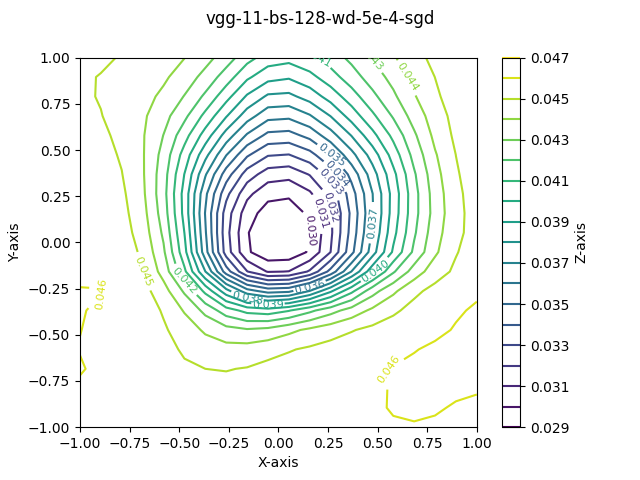
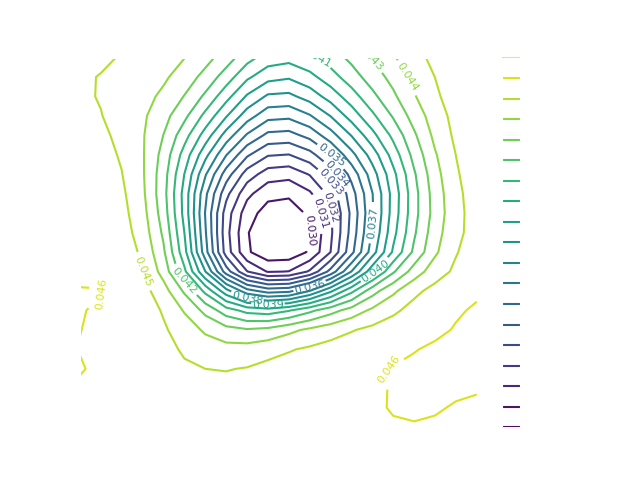
focus plot focus page images transparent bg

diff --git a/viz/blog.html b/viz/blog.html
@@ -288,7 +288,7 @@
         <!-- Image 1 -->
         <div class="col-md-2">
           <figure class="text-center">
-            <img src="../finalplots/vgg wd.jpeg" alt="VGG Weight Decay Effect" class="img-fluid">
+            <img src="../results/plots/weight-decay-vgg-11.png" alt="VGG Weight Decay Effect" class="img-fluid">
             <figcaption>VGG Weight Decay Effect</figcaption>
           </figure>
         </div>
@@ -296,7 +296,7 @@
         <!-- Image 1 -->
         <div class="col-md-2">
           <figure class="text-center">
-            <img src="../finalplots/vgg-11-wd-demonstration.png" alt="Weight Decay Effect" class="img-fluid">
+            <img src="../results/plots/weight-decay-compare-vgg-11.png" alt="Weight Decay Effect" class="img-fluid">
             <figcaption>Weight Decay Effect</figcaption>
           </figure>
         </div>
@@ -374,7 +374,7 @@
         <!-- Image 8 -->
         <div class="col-md-2">
           <figure class="text-center">
-            <img src="../results/plots/sharp-flat-plot-:resnet-56-short-4.png"
+            <img src="../results/plots/sharp-flat-plot-resnet-56-short-4.png"
               alt="ResNet-56, Shortcuts, Batch Size: 128" class="img-fluid">
             <figcaption>ResNet-56, Shortcuts, Batch Size: 128</figcaption>
           </figure>
@@ -383,7 +383,7 @@
         <!-- Image 9 -->
         <div class="col-md-2">
           <figure class="text-center">
-            <img src="../results/plots/sharp-flat-plot-:resnet-56-short-2.png"
+            <img src="../results/plots/sharp-flat-plot-resnet-56-short-2.png"
               alt="ResNet-56, Shortcuts, Batch Size: 128" class="img-fluid">
             <figcaption>ResNet-56, Shortcuts, Batch Size: 128</figcaption>
           </figure>
@@ -392,20 +392,16 @@
         <!-- Image 10 -->
         <div class="col-md-2">
           <figure class="text-center">
-            <img src="../results/plots/sharp-flat-plot-:resnet-56-short-1.png"
+            <img src="../results/plots/sharp-flat-plot-resnet-56-short-1.png"
               alt="ResNet-56, Shortcuts, Batch Size: 128" class="img-fluid">
             <figcaption>ResNet-56, Shortcuts, Batch Size: 128</figcaption>
           </figure>
         </div>
 
-      </div>
-
-      <div class="row">
-
         <!-- Image 11 -->
         <div class="col-md-2">
           <figure class="text-center">
-            <img src="../results/plots/sharp-flat-plot-:resnet-20-short-1.png"
+            <img src="../results/plots/sharp-flat-plot-resnet-20-short-1.png"
               alt="ResNet-20, Shortcuts, Batch Size: 128" class="img-fluid">
             <figcaption>ResNet-20, Shortcuts, Batch Size: 128</figcaption>
           </figure>
@@ -657,14 +653,25 @@
       integrity="sha384-C6RzsynM9kWDrMNeT87bh95OGNyZPhcTNXj1NW7RuBCsyN/o0jlpcV8Qyq46cDfL"
       crossorigin="anonymous"></script>
     <script type="text/javascript">
-      // make each paragraph a different color
-      const elements = []
-      for (let el of document.getElementsByTagName("section")) {
-        elements.push(el)
+      let time = 50
+      function animate() {
+        // requestAnimationFrame(animate)
+        // make each paragraph a different color
+        const elements = []
+        for (let el of document.getElementsByTagName("section")) {
+          elements.push(el)
+        }
+        for (let i = 0; i < elements.length; i++) elements[i].style.color = `hsl(${i * 30 + time}, 50%, 50%)`
+
+
+        // add background to all images
+        const images = document.getElementsByTagName("img")
+        for (let i = 0; i < images.length; i++) {
+          images[i].style.backgroundColor = `hsl(${i * 30 + time}, 50%, 50%, 0.1)`
+        }
+        time += 1
       }
-      for (let i = 0; i < elements.length; i++) elements[i].style.color = `hsl(${i * 30}, 50%, 50%)`;
-      // set the background color of the body
-      document.body.style.backgroundColor = "transparent !important";  
+      animate()
     </script>
 </body>
 

diff --git a/viz/js/gui.js b/viz/js/gui.js
@@ -3,13 +3,18 @@ import { world } from './world.js'
 import { reset_orbit_cam } from './controls.js'
 import { load_model_name } from './plot.js'
 import { add_ball, clear_balls } from './physics.js'
+import * as THREE from 'three'
+import TWEEN from 'tween'
 
 const gui_items = {
-	orbit_camera: () => {
-		world.camera = world.orbit_cam
-	},
-	reset_orbit_camera: () => {
+	// orbit_camera: () => {
+	// 	world.camera = world.orbit_cam
+	// },
+	focus_plot: () => {
 		reset_orbit_cam()
+	},
+	focus_page: () => {
+		move_cam_to_page()
 	},
 	add_ball: () => {
 		add_ball()
@@ -17,6 +22,29 @@ const gui_items = {
 	clear_balls: () => {
 		clear_balls()
 	},
+}
+
+function move_cam_to_page() {
+	const { orbit_cam, orbit } = world
+	const transitions = [
+		[orbit_cam.position, new THREE.Vector3(-3, 1, 4.5)],
+		[orbit_cam.quaternion, new THREE.Quaternion().setFromEuler(new THREE.Euler(0, 0, 0, 'XYZ'))],
+		[orbit.target, world.origin],
+	]
+
+	// look at page
+	orbit_cam.lookAt(world.page.position)
+
+	// smooth transition
+	for (const [start, end] of transitions) {
+		new TWEEN.Tween(start)
+			.to(end, 1000)
+			.easing(TWEEN.Easing.Quadratic.InOut)
+			.onUpdate(() => {
+				orbit_cam.updateProjectionMatrix()
+				orbit.update()
+			}).start()
+	}
 }
 
 function get_pretty_name(name) {
@@ -66,10 +94,10 @@ function init_gui() {
 				}
 				if (time > 1) {
 					time = 1
-					if(world.show_page) {
+					if (world.show_page) {
 						world.page_div.style.opacity = 1
 						world.page.visible = true
-					}else{
+					} else {
 						world.page_div.style.opacity = 0
 						world.page.visible = false
 					}

diff --git a/viz/js/plot.js b/viz/js/plot.js
@@ -57,7 +57,7 @@ function process_data(data, log_plot = false) {
 		}
 	}
 	normalize(data)
-	perturb_noise(data)
+	add_noise(data)
 	blend_mesh(mesh.geometry, data)
 	// const cp = make_cp()
 	// mesh.add(cp)
@@ -65,25 +65,14 @@ function process_data(data, log_plot = false) {
 	return { mesh, width, height }
 }
 
-function perturb_noise(data) {
+function add_noise(data) {
 	const width = data.length, height = data[0].length
-	const offset = (x, y) => x * width + y
-	const noise = new Array(width * height)
-	// add perlin noise
-	for (let x = 0; x < width; x++) {
-		for (let y = 0; y < height; y++) {
-
-			noise[offset(x, y)] = Math.random() * 0.05
-		}
-	}
 	// add noise to data
 	for (let x = 0; x < width; x++) {
 		for (let y = 0; y < height; y++) {
-			data[x][y].z += noise[offset(x, y)]
+			data[x][y].z += (Math.random() - 0.5) * 0.05
 		}
 	}
-
-
 }
 
 function normalize(data) {

diff --git a/viz/js/scene.js b/viz/js/scene.js
@@ -86,8 +86,8 @@ function add_page() {
 	div.appendChild(iframe)
 
 	const page = new CSS3DObject(div)
-	page.scale.set(0.01, 0.01, 0.01)
-	page.position.set(-4, 0, 0)
+	page.scale.set(0.005, 0.005, 0.005)
+	page.position.set(-2, 1, 0)
 	scene.add(page)
 
 	world.page = page
@@ -97,9 +97,9 @@ function add_page() {
 function build_scene() {
 	// add_ground()
 	add_skybox()
-	add_plot()
-	load_model_name()
-	add_page()
+	// add_plot()
+	// load_model_name()
+	// add_page()
 }
 
 export { build_scene, add_lights }

diff --git a/viz/js/controls.js b/viz/js/controls.js
@@ -137,7 +137,7 @@ function init_cameras() {
 function reset_orbit_cam() {
 	const { orbit_cam, orbit } = world
 	const transitions = [
-		[orbit_cam.position, new THREE.Vector3(0, 1.2, 1.2)],
+		[orbit_cam.position, new THREE.Vector3(0.8, 1.2, 1)],
 		[orbit_cam.quaternion, new THREE.Quaternion().setFromEuler(new THREE.Euler(0, 0, 0, 'XYZ'))],
 		[orbit.target, world.origin],
 	]

diff --git a/plot.py b/plot.py
@@ -13,27 +13,38 @@ parser.add_argument('--json', action='store_true')
 parser.add_argument('--plot',
                     type=str,
                     default='surface',
-                    choices=['surface', 'contour', 'sharp_flat'])
+                    choices=['surface', 'contour', 'sharp_flat', 'weight_decay'])
 parser.add_argument('--transparent', action='store_true')
+parser.add_argument('--log', action='store_true')
+parser.add_argument('--comp', action='store_true')
 args = parser.parse_args()
+
+if args.transparent:
+    plt.style.use('dark_background')
 
 model_unique_id = gen_unique_id_from_filename(args.file)
 
-array = np.load(args.file, allow_pickle=True)
-loss, accs, x, y = array
-print(array.shape)
-print(loss.shape, accs.shape, x.shape, y.shape)
-loss = loss[0]
-x = x[0]
-y = y[0]
-accs = accs[0]
+if args.plot != 'weight_decay':
+    array = np.load(args.file, allow_pickle=True)
+    loss, accs, x, y = array
+    print(array.shape)
+    print(loss.shape, accs.shape, x.shape, y.shape)
+    loss = loss[0]
+    x = x[0]
+    y = y[0]
+    accs = accs[0]
 
-# replace nan with 0
-loss = np.nan_to_num(loss, posinf=0, neginf=0)
-accs = np.nan_to_num(accs, posinf=0, neginf=0)
+    # replace nan with 0
+    loss = np.nan_to_num(loss, posinf=0, neginf=0)
+    accs = np.nan_to_num(accs, posinf=0, neginf=0)
+
+    if args.log:
+        loss = np.log(loss)
+        accs = np.log(accs)
 
 
 def contour_plot():
+    global loss
     loss = loss / 10000
     contour_plot = plt.contour(x, y, loss, levels=20, cmap='viridis')
     plt.clabel(contour_plot, inline=True, fontsize=8)
@@ -70,8 +81,9 @@ def sharp_flat_plot():
     filename = os.path.basename(args.file).replace('.npy', '')
 
     # keep "model:(...)_" only
-    filename = filename.split('model:')[1]
-    filename = filename.split('_')[0]
+    if "model:" in filename:
+        filename = filename.split('model:')[1]
+        filename = filename.split('_')[0]
 
     plt.suptitle(filename)
 
@@ -84,10 +96,6 @@ def sharp_flat_plot():
 
 
 def surface_plot():
-    # # log scale
-    # loss = np.log(loss)
-    # accs = np.log(accs)
-
     # # print(loss.min(), loss.max())
 
     def to_xyz_array(arr):
@@ -129,11 +137,44 @@ def surface_plot():
         plt.savefig(f'results/plots/acc-{model_unique_id}.png',
                     transparent=args.transparent)
 
+def weight_decay_plot():
+    array = np.load(args.file)
+    loss, accs, x, wd1, wd2 = array['loss'], array['acc'], array['x'], array['wd1'], array['wd2']
+    print(loss, x)
+    loss /= 10000
+    loss[loss > np.min(loss)*10] = np.min(loss) * 10
+    if args.comp:
+        plt.plot(wd1, label = "Batch Size - 1024")
+        plt.plot(wd2, label = "Batch SIze - 128")
+    else:
+        fig, ax1 = plt.subplots()
+        x = np.arange(len(loss)) / len(loss) * 2.5 - 1.25
+        ax1.plot(x, loss, 'b-')
+        ax1.set_xlabel('interpolation (alpha)')
+        ax1.set_ylabel('loss', color='b')
+        ax1.tick_params('y', colors='b')
+
+        ax2 = ax1.twinx()
+        ax2.plot(x, accs, 'r-')
+        ax2.set_ylabel('acc', color='r')
+        ax2.tick_params('y', colors='r')
+
+    plt.title("VGG-11, Weight Decay 5e-4")
+    if args.show:
+        plt.show()
+    else:
+        if args.comp:
+            plt.savefig(f'results/plots/weight-decay-compare-{model_unique_id}.png',
+                    transparent=args.transparent)
+        else:
+            plt.savefig(f'results/plots/weight-decay-{model_unique_id}.png',
+                        transparent=args.transparent)
 
 plots = {
     'contour': contour_plot,
     'sharp_flat': sharp_flat_plot,
-    'surface': surface_plot
+    'surface': surface_plot,
+    'weight_decay': weight_decay_plot,
 }
 
 plots[args.plot]()
